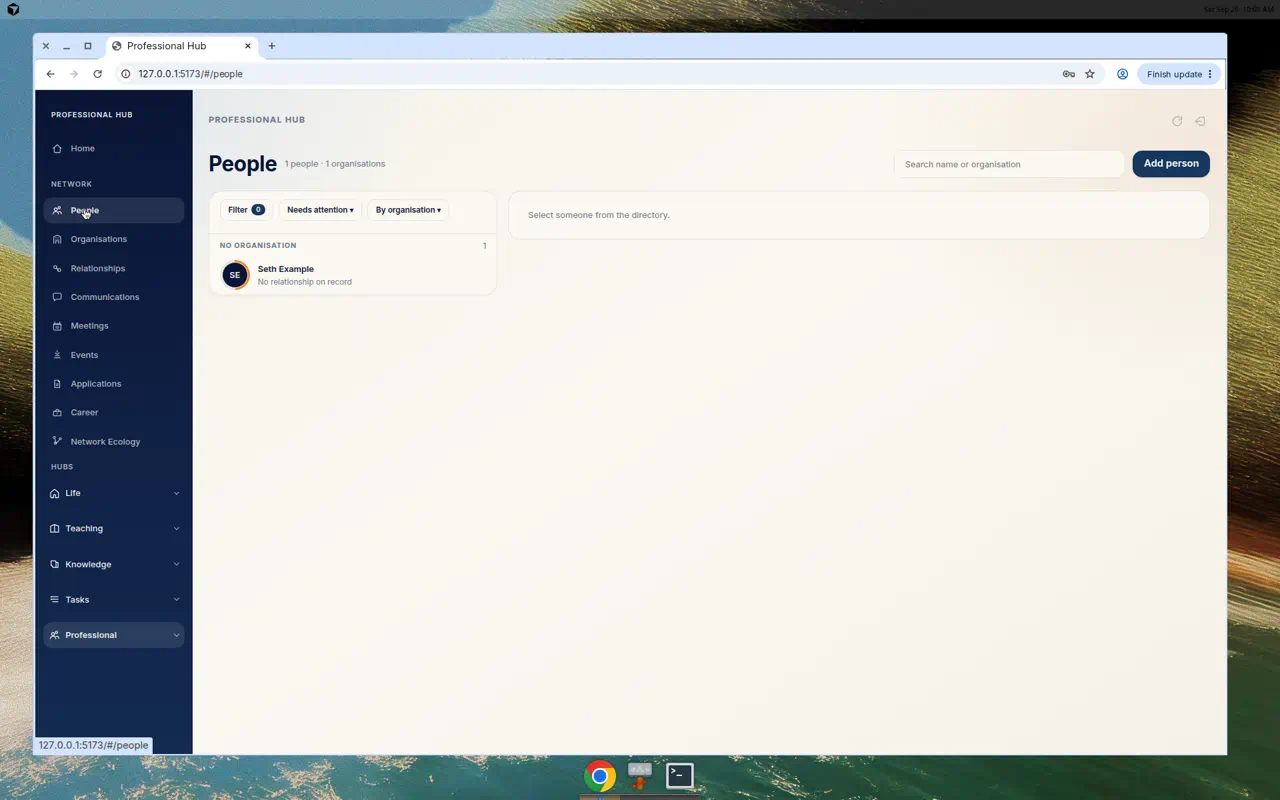
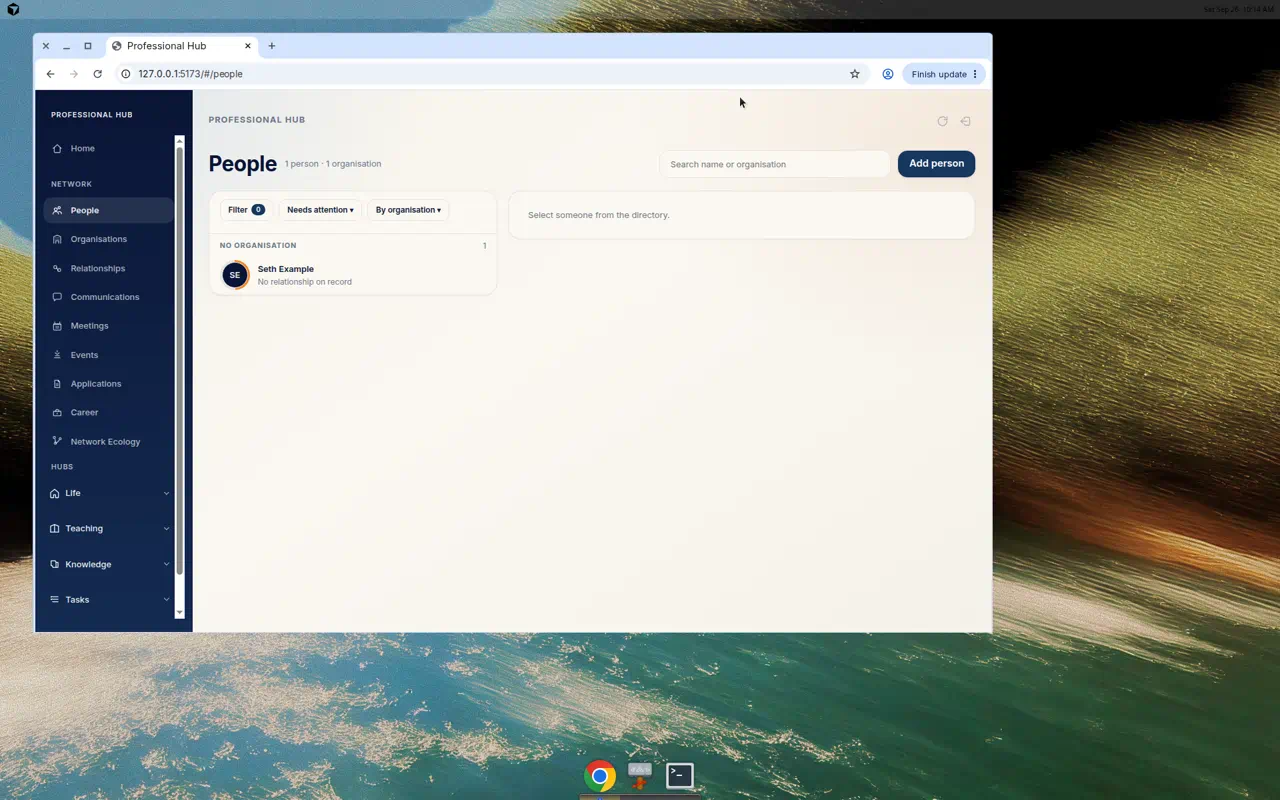
fix(professional): People Filters sheet scroll + phone sort/group
Make the Filters sheet scroll so Relationship is visible, and detect
phone with isPhone() when opening the sheet so Sort/Group always appear
at 390.

Changed region(s): [[0.0, 0.0312, 0.9688, 0.9688], [0.5312, 0.1875, 0.625, 0.2188]]

diff --git a/apps/professional/src/views/people.ts b/apps/professional/src/views/people.ts
@@ -809,9 +809,37 @@ export async function renderPeoplePage(
   });
 
   function openFilterSheet(): void {
+    const onPhone = isPhone();
     sheet.hidden = false;
     sheetInner.replaceChildren();
     sheetInner.append(el('h2', 'people-pane__name', 'Filters'));
+
+    let sortSelect: HTMLSelectElement | null = null;
+    let groupSelect: HTMLSelectElement | null = null;
+    // Phone Filters sheet owns sort + group (1.6 / L5); desktop keeps toolbar menus.
+    if (onPhone) {
+      const sortField = el('label', 'people-page__field', 'Sort');
+      sortSelect = document.createElement('select');
+      for (const key of Object.keys(SORT_LABELS) as DirectorySort[]) {
+        const opt = document.createElement('option');
+        opt.value = key;
+        opt.textContent = SORT_LABELS[key];
+        if (query.sort === key) opt.selected = true;
+        sortSelect.append(opt);
+      }
+      sortField.append(sortSelect);
+      const groupField = el('label', 'people-page__field', 'Group');
+      groupSelect = document.createElement('select');
+      for (const key of Object.keys(GROUP_LABELS) as DirectoryGroup[]) {
+        const opt = document.createElement('option');
+        opt.value = key;
+        opt.textContent = GROUP_LABELS[key];
+        if (query.group === key) opt.selected = true;
+        groupSelect.append(opt);
+      }
+      groupField.append(groupSelect);
+      sheetInner.append(sortField, groupField);
+    }
 
     const roleField = el('label', 'people-page__field', 'Relationship');
     const roleSelect = document.createElement('select');
@@ -872,32 +900,6 @@ export async function renderPeoplePage(
     openCb.checked = query.hasOpen;
     open.append(openCb, document.createTextNode(' Has open items'));
 
-    let sortSelect: HTMLSelectElement | null = null;
-    let groupSelect: HTMLSelectElement | null = null;
-    if (phone) {
-      const sortField = el('label', 'people-page__field', 'Sort');
-      sortSelect = document.createElement('select');
-      for (const key of Object.keys(SORT_LABELS) as DirectorySort[]) {
-        const opt = document.createElement('option');
-        opt.value = key;
-        opt.textContent = SORT_LABELS[key];
-        if (query.sort === key) opt.selected = true;
-        sortSelect.append(opt);
-      }
-      sortField.append(sortSelect);
-      const groupField = el('label', 'people-page__field', 'Group');
-      groupSelect = document.createElement('select');
-      for (const key of Object.keys(GROUP_LABELS) as DirectoryGroup[]) {
-        const opt = document.createElement('option');
-        opt.value = key;
-        opt.textContent = GROUP_LABELS[key];
-        if (query.group === key) opt.selected = true;
-        groupSelect.append(opt);
-      }
-      groupField.append(groupSelect);
-      sheetInner.append(sortField, groupField);
-    }
-
     const apply = el('button', 'btn btn--primary', 'Apply') as HTMLButtonElement;
     apply.type = 'button';
     apply.addEventListener('click', () => {
@@ -922,6 +924,7 @@ export async function renderPeoplePage(
       sheet.hidden = true;
     });
     sheetInner.append(roleField, orgScopeField, orgField, warmth, open, apply, close);
+    sheetInner.scrollTop = 0;
   }
 
   filterBtn.addEventListener('click', openFilterSheet);

diff --git a/apps/professional/src/styles/hub.css b/apps/professional/src/styles/hub.css
@@ -2763,6 +2763,8 @@
 .people-page__sheet-inner {
   width: 100%;
   max-width: 28rem;
+  max-height: min(85dvh, 36rem);
+  overflow-y: auto;
   background: var(--paper);
   border-radius: var(--radius-md) var(--radius-md) 0 0;
   padding: var(--space-4);
